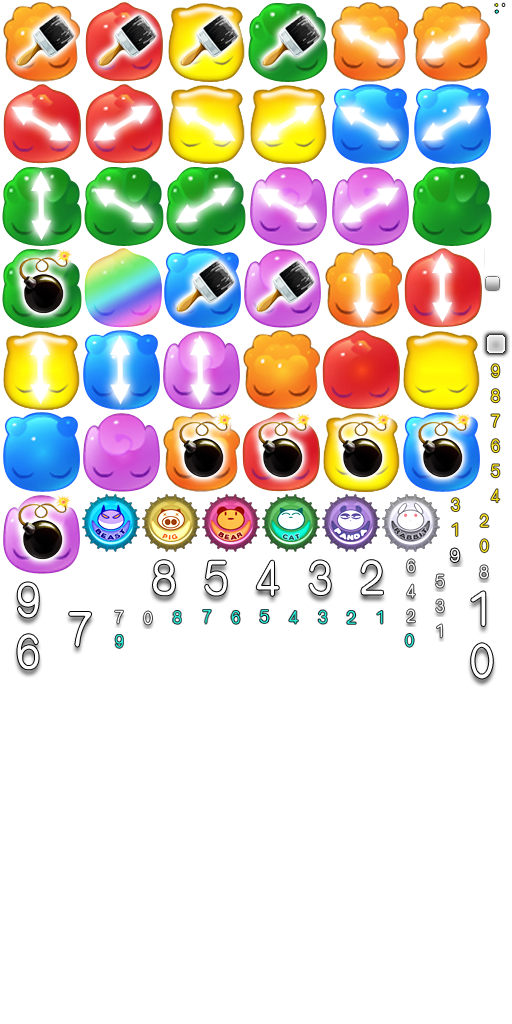
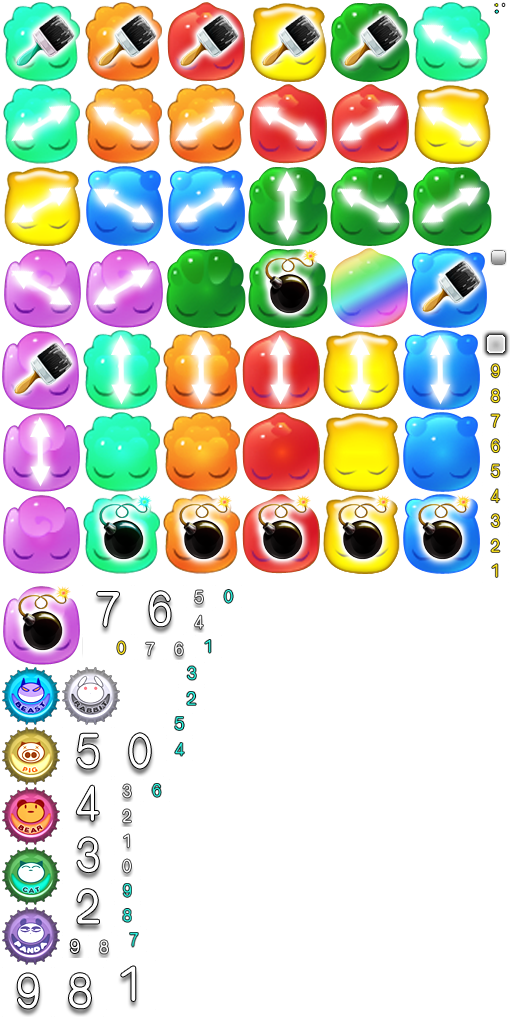
增加一个颜色的块 几种道具基本功能的实现

diff --git a/ClientProject/Assets/CSharpScripts/GameLogic.cs b/ClientProject/Assets/CSharpScripts/GameLogic.cs
@@ -71,7 +71,7 @@ class Position{
 public class GameLogic {
     static readonly int BlockCountX = 7;	//游戏区有几列
     static readonly int BlockCountY = 7;	//游戏区有几行
-
+    static readonly int ColorCount = 7;     //有几种颜色
     static readonly int gameAreaX = 0;		//游戏区域左上角坐标
     static readonly int gameAreaY = 100;		//游戏区域左上角坐标
     static readonly int gameAreaWidth = 480;	//游戏区域宽度
@@ -141,7 +141,7 @@ public class GameLogic {
     {
         //初始化瓶盖图片池
         string name;
-        for (int i = 0; i < 6; ++i )
+        for (int i = 0; i < ColorCount; ++i )
         {
             name = "Item" + (i + 1);
             m_availableSprite[i] = new LinkedList<Transform>();
@@ -568,6 +568,14 @@ public class GameLogic {
         }
         //TODO 生成道具
         //根据结果来生成道具////////////////////////////////////////////////////////////////////////
+		else if (maxCountInSameDir >= 5)		//若最大每行消了5个
+        {
+            CreateSpecialBlock(TSpecialBlock.ESpecial_EatAColor, position);
+        }
+		else if (totalSameCount >= 6)			//若总共消除大于等于6个（3,4消除或者多个3消）
+        {
+            CreateSpecialBlock(TSpecialBlock.ESpecial_Bomb, position);
+        }
         else if (maxCountInSameDir == 4)		//若最大每行消了4个
         {
             if (m_moveDirection == TDirection.EDir_Up || m_moveDirection == TDirection.EDir_Down)
@@ -582,14 +590,6 @@ public class GameLogic {
             {
                 CreateSpecialBlock(TSpecialBlock.ESpecial_EatLineDir2, position);
             }
-        }
-        else if (maxCountInSameDir >= 5)		//若最大每行消了5个
-        {
-            CreateSpecialBlock(TSpecialBlock.ESpecial_EatAColor, position);
-        }
-        else if (totalSameCount >= 6)			//若总共消除大于等于6个（3,4消除或者多个3消）
-        {
-            CreateSpecialBlock(TSpecialBlock.ESpecial_Bomb, position);
         }
         else if (totalSameCount > 4)			//若总共消除大于4个
         {
@@ -622,12 +622,61 @@ public class GameLogic {
         return true;
     }
 
+    Position FindRandomPos(TBlockColor excludeColor, Position [] excludePos)       //找到某个颜色的随机一个块, 简易算法，性能不好
+    {
+        int ranNum = m_random.Next()%(BlockCountX*BlockCountY);
+        int count = 0;
+        for (int i = 0; i < BlockCountX; i++)				//遍历一行
+        {
+            for (int j = 0; j < BlockCountY; j++)		//遍历一列
+            {
+                if (count < ranNum)
+                {
+					++count;
+                    continue;
+                }
+                if (m_blocks[i, j].color == excludeColor)
+                {
+                    continue;
+                }
+                if (m_blocks[i,j].special == TSpecialBlock.ESpecial_EatAColor)
+                {
+                    continue;
+                }
+                Position pos = new Position(i, j);
+                bool bFind = false;
+                for (int k = 0; k < excludePos.Length; ++k )
+                {
+                    if (excludePos[k] == pos)
+                    {
+                        bFind = true;
+                        break;
+                    }
+                }
+                if (!bFind)
+                {
+                    return pos;
+                }
+                if(i == BlockCountX -1 && j == BlockCountY -1)//Repeat the loop till get a result
+				{
+					i=0;
+					j=0;
+				}
+            }
+        }
+        return new Position(0, 0);
+    }
+
     void EatBlock(Position position)
     {
         if (position.x >= BlockCountX || position.y >= BlockCountY || position.x < 0 || position.y < 0)
             return;
         if (m_blocks[position.x, position.y].x_move > 0 || m_blocks[position.x, position.y].y_move > 0)
             return;
+        if (m_blocks[position.x, position.y].IsEating())        //不重复消除
+        {
+            return;
+        }
         for (int i = 0; i <= position.y; i++)
         {
             m_blocks[position.x, i].isCanMove = false;      //上方所有块都不能移动
@@ -648,22 +697,51 @@ public class GameLogic {
                 break;
             case TSpecialBlock.ESpecial_Painter:
                 {
-
+                    Position[] excludePos = new Position[4];
+                    for (int i = 0; i < 4; ++i )
+                    {
+                        excludePos[i] = position;           //先用当前位置初始化排除的位置数组
+                    }
+                    for (int i = 0; i < 3; ++i )            //取得随机点
+                    {
+                        excludePos[i + 1] = FindRandomPos(m_blocks[position.x, position.y].color, excludePos);
+                    }
+                    //TODO 这里要放特效
+                    for (int i = 1; i < 4; ++i )
+                    {
+                        //更改颜色的操作
+                        MakeSpriteFree(m_blocks[excludePos[i].x, excludePos[i].y].color, m_blocks[excludePos[i].x, excludePos[i].y].m_blockTransform);
+                        m_blocks[excludePos[i].x, excludePos[i].y].m_blockTransform = GetFreeBlockSprite(m_blocks[position.x, position.y].color);
+                        m_blocks[excludePos[i].x, excludePos[i].y].m_blockSprite = m_blocks[excludePos[i].x, excludePos[i].y].m_blockTransform.GetComponent<UISprite>();
+                        m_blocks[excludePos[i].x, excludePos[i].y].color = m_blocks[position.x, position.y].color;
+                    }
                 }
                 break;
             case TSpecialBlock.ESpecial_EatLineDir0:
                 {
-
+                    for (int i = 0; i < BlockCountX; ++i )
+                    {
+                        EatBlock(GoTo(position, TDirection.EDir_Down, i));
+                        EatBlock(GoTo(position, TDirection.EDir_Up, i));
+                    }
                 }
                 break;
             case TSpecialBlock.ESpecial_EatLineDir1:
                 {
-
+                    for (int i = 1; i < BlockCountX - 1; ++i)
+                    {
+                        EatBlock(GoTo(position, TDirection.EDir_UpRight, i));
+                        EatBlock(GoTo(position, TDirection.EDir_LeftDown, i));
+                    }
                 }
                 break;
             case TSpecialBlock.ESpecial_EatLineDir2:
                 {
-
+                    for (int i = 0; i < BlockCountX; ++i)
+                    {
+                        EatBlock(GoTo(position, TDirection.EDir_LeftUp, i));
+                        EatBlock(GoTo(position, TDirection.EDir_DownRight, i));
+                    }
                 }
                 break;
             case TSpecialBlock.ESpecial_EatAColor:
@@ -920,13 +998,13 @@ public class GameLogic {
 
     TBlockColor GetRandomColor()
     {
-        return TBlockColor.EColor_White + m_random.Next() % 6;
+        return TBlockColor.EColor_White + m_random.Next() % ColorCount;
     }
 
     TBlockColor GetNextColor(TBlockColor color)
     {
         int index = color - TBlockColor.EColor_White;
-        return (TBlockColor)((index + 1) % 6 + TBlockColor.EColor_White);
+        return (TBlockColor)((index + 1) % ColorCount + TBlockColor.EColor_White);
     }
 
     bool IsHaveLine(Position position)

diff --git a/ClientProject/Assets/CSharpScripts/CapBlock.cs b/ClientProject/Assets/CSharpScripts/CapBlock.cs
@@ -10,6 +10,7 @@ public enum TBlockColor
     EColor_Red,
     EColor_Golden,
     EColor_Blue,
+    EColor_Grey,                
 };
 
 public enum TSpecialBlock
